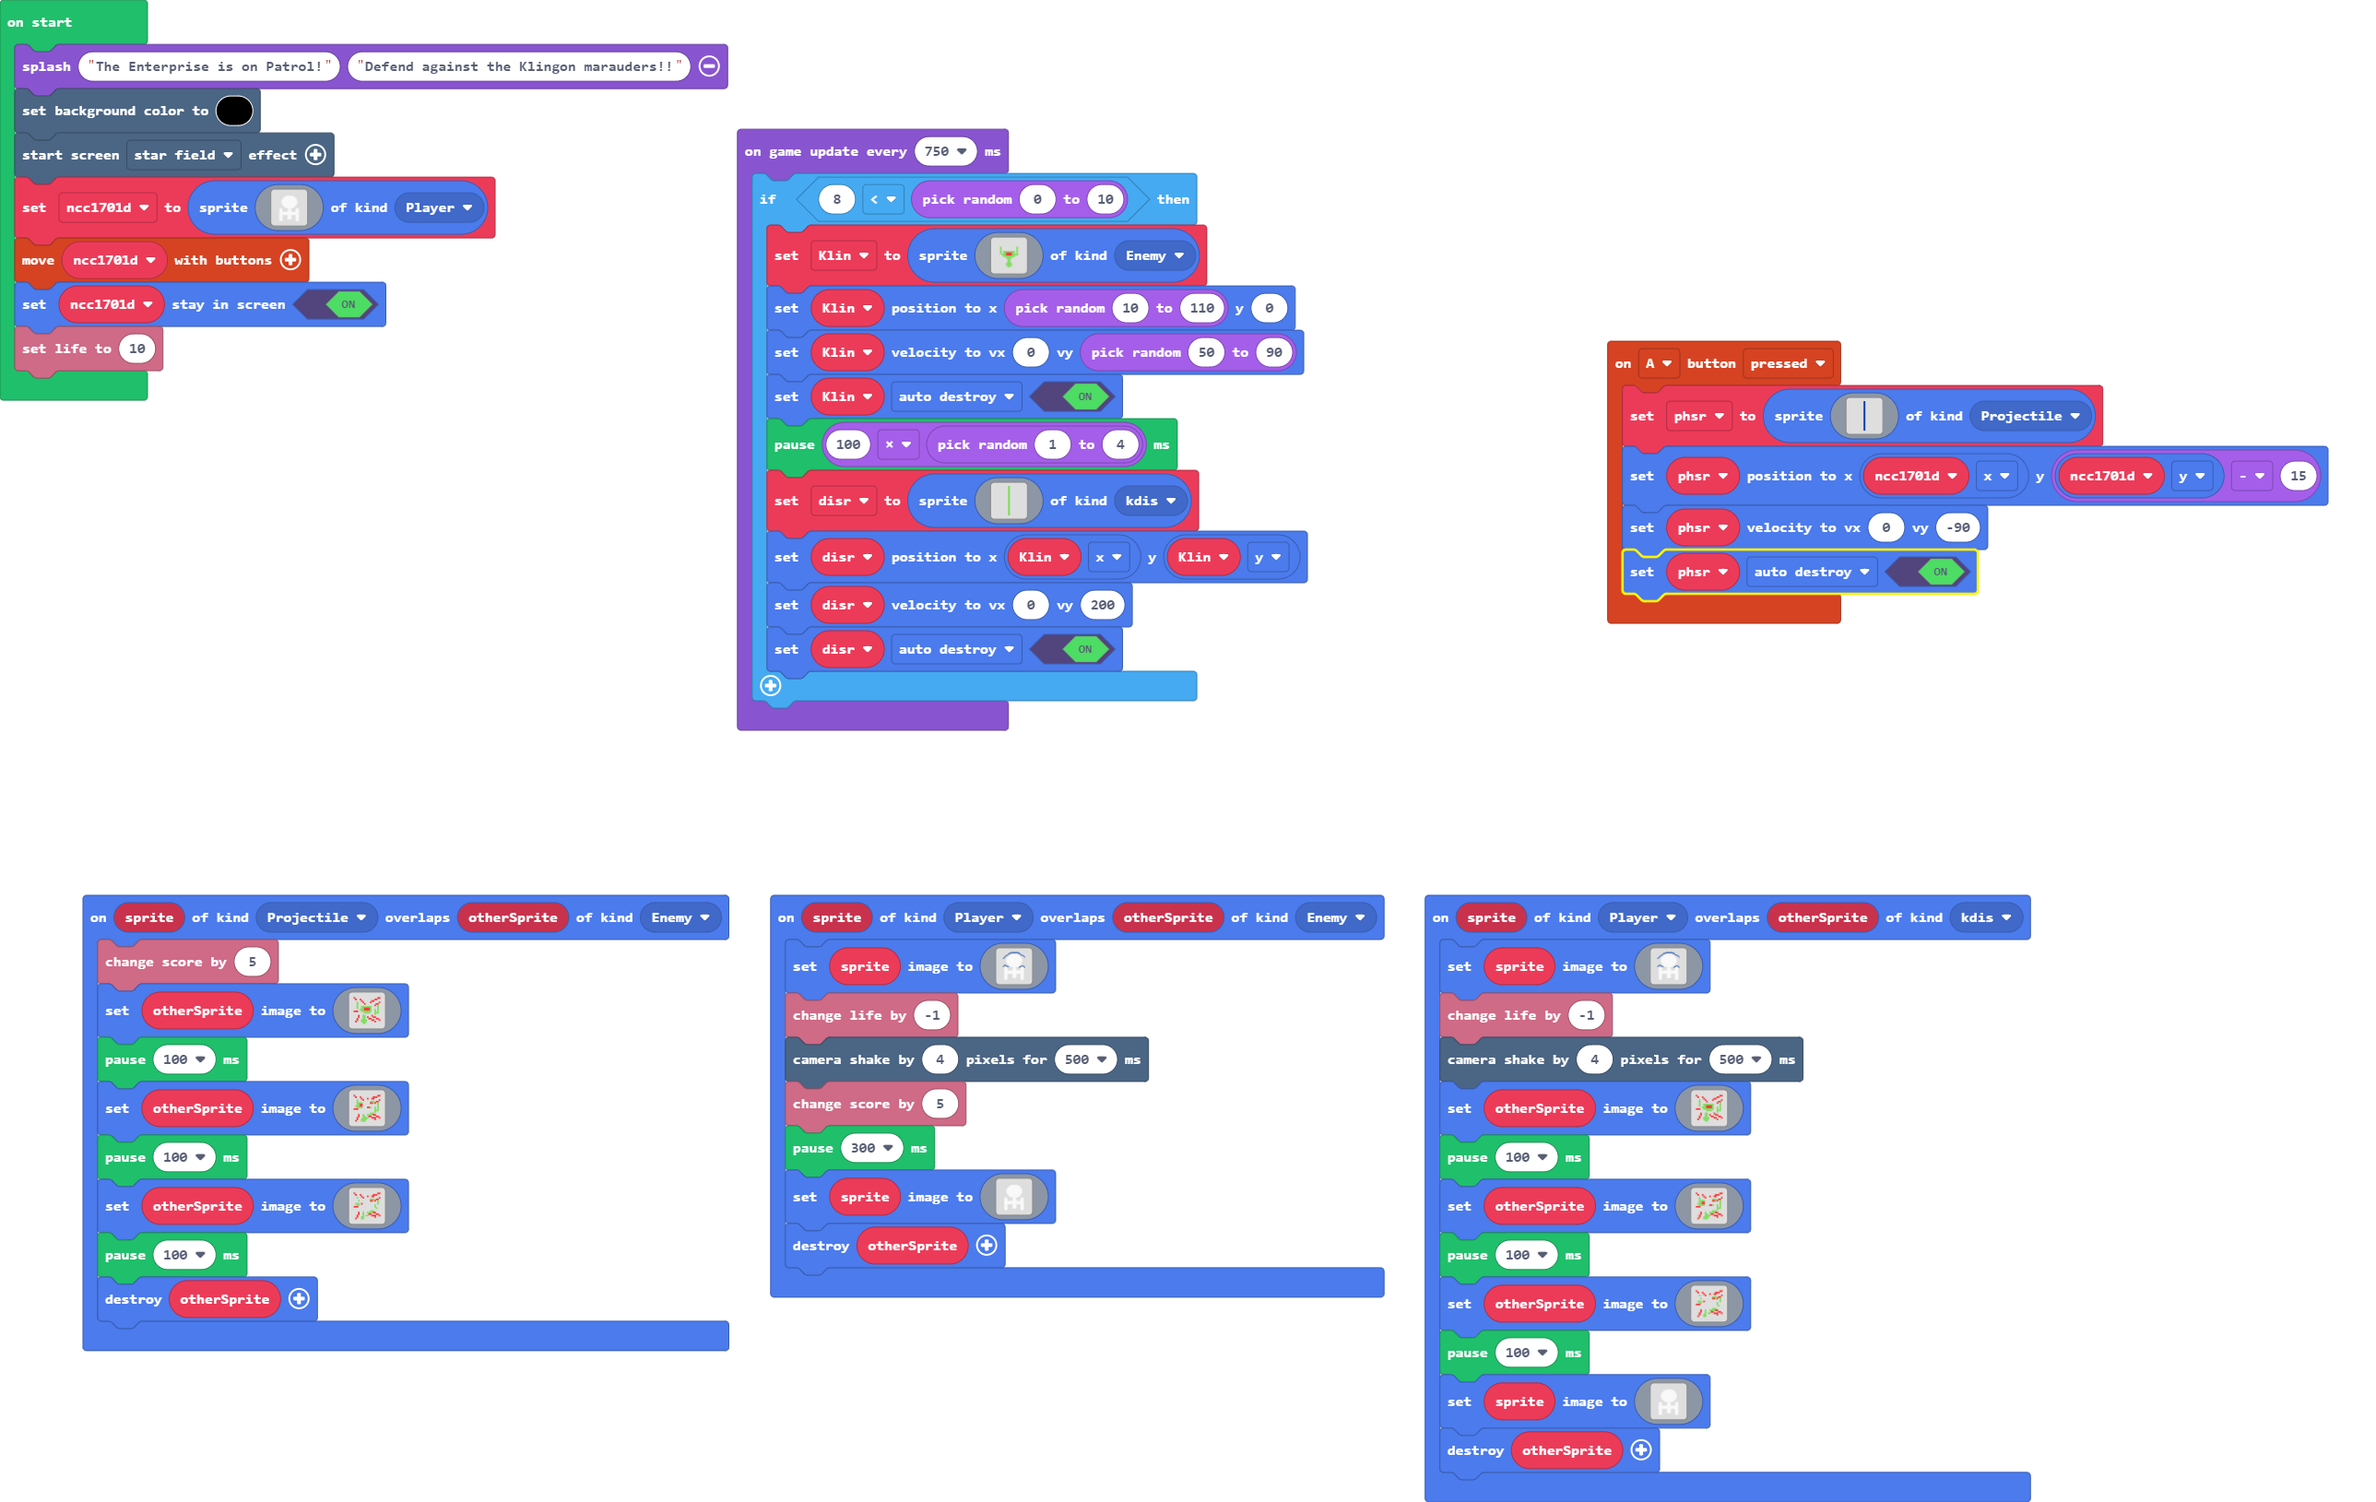
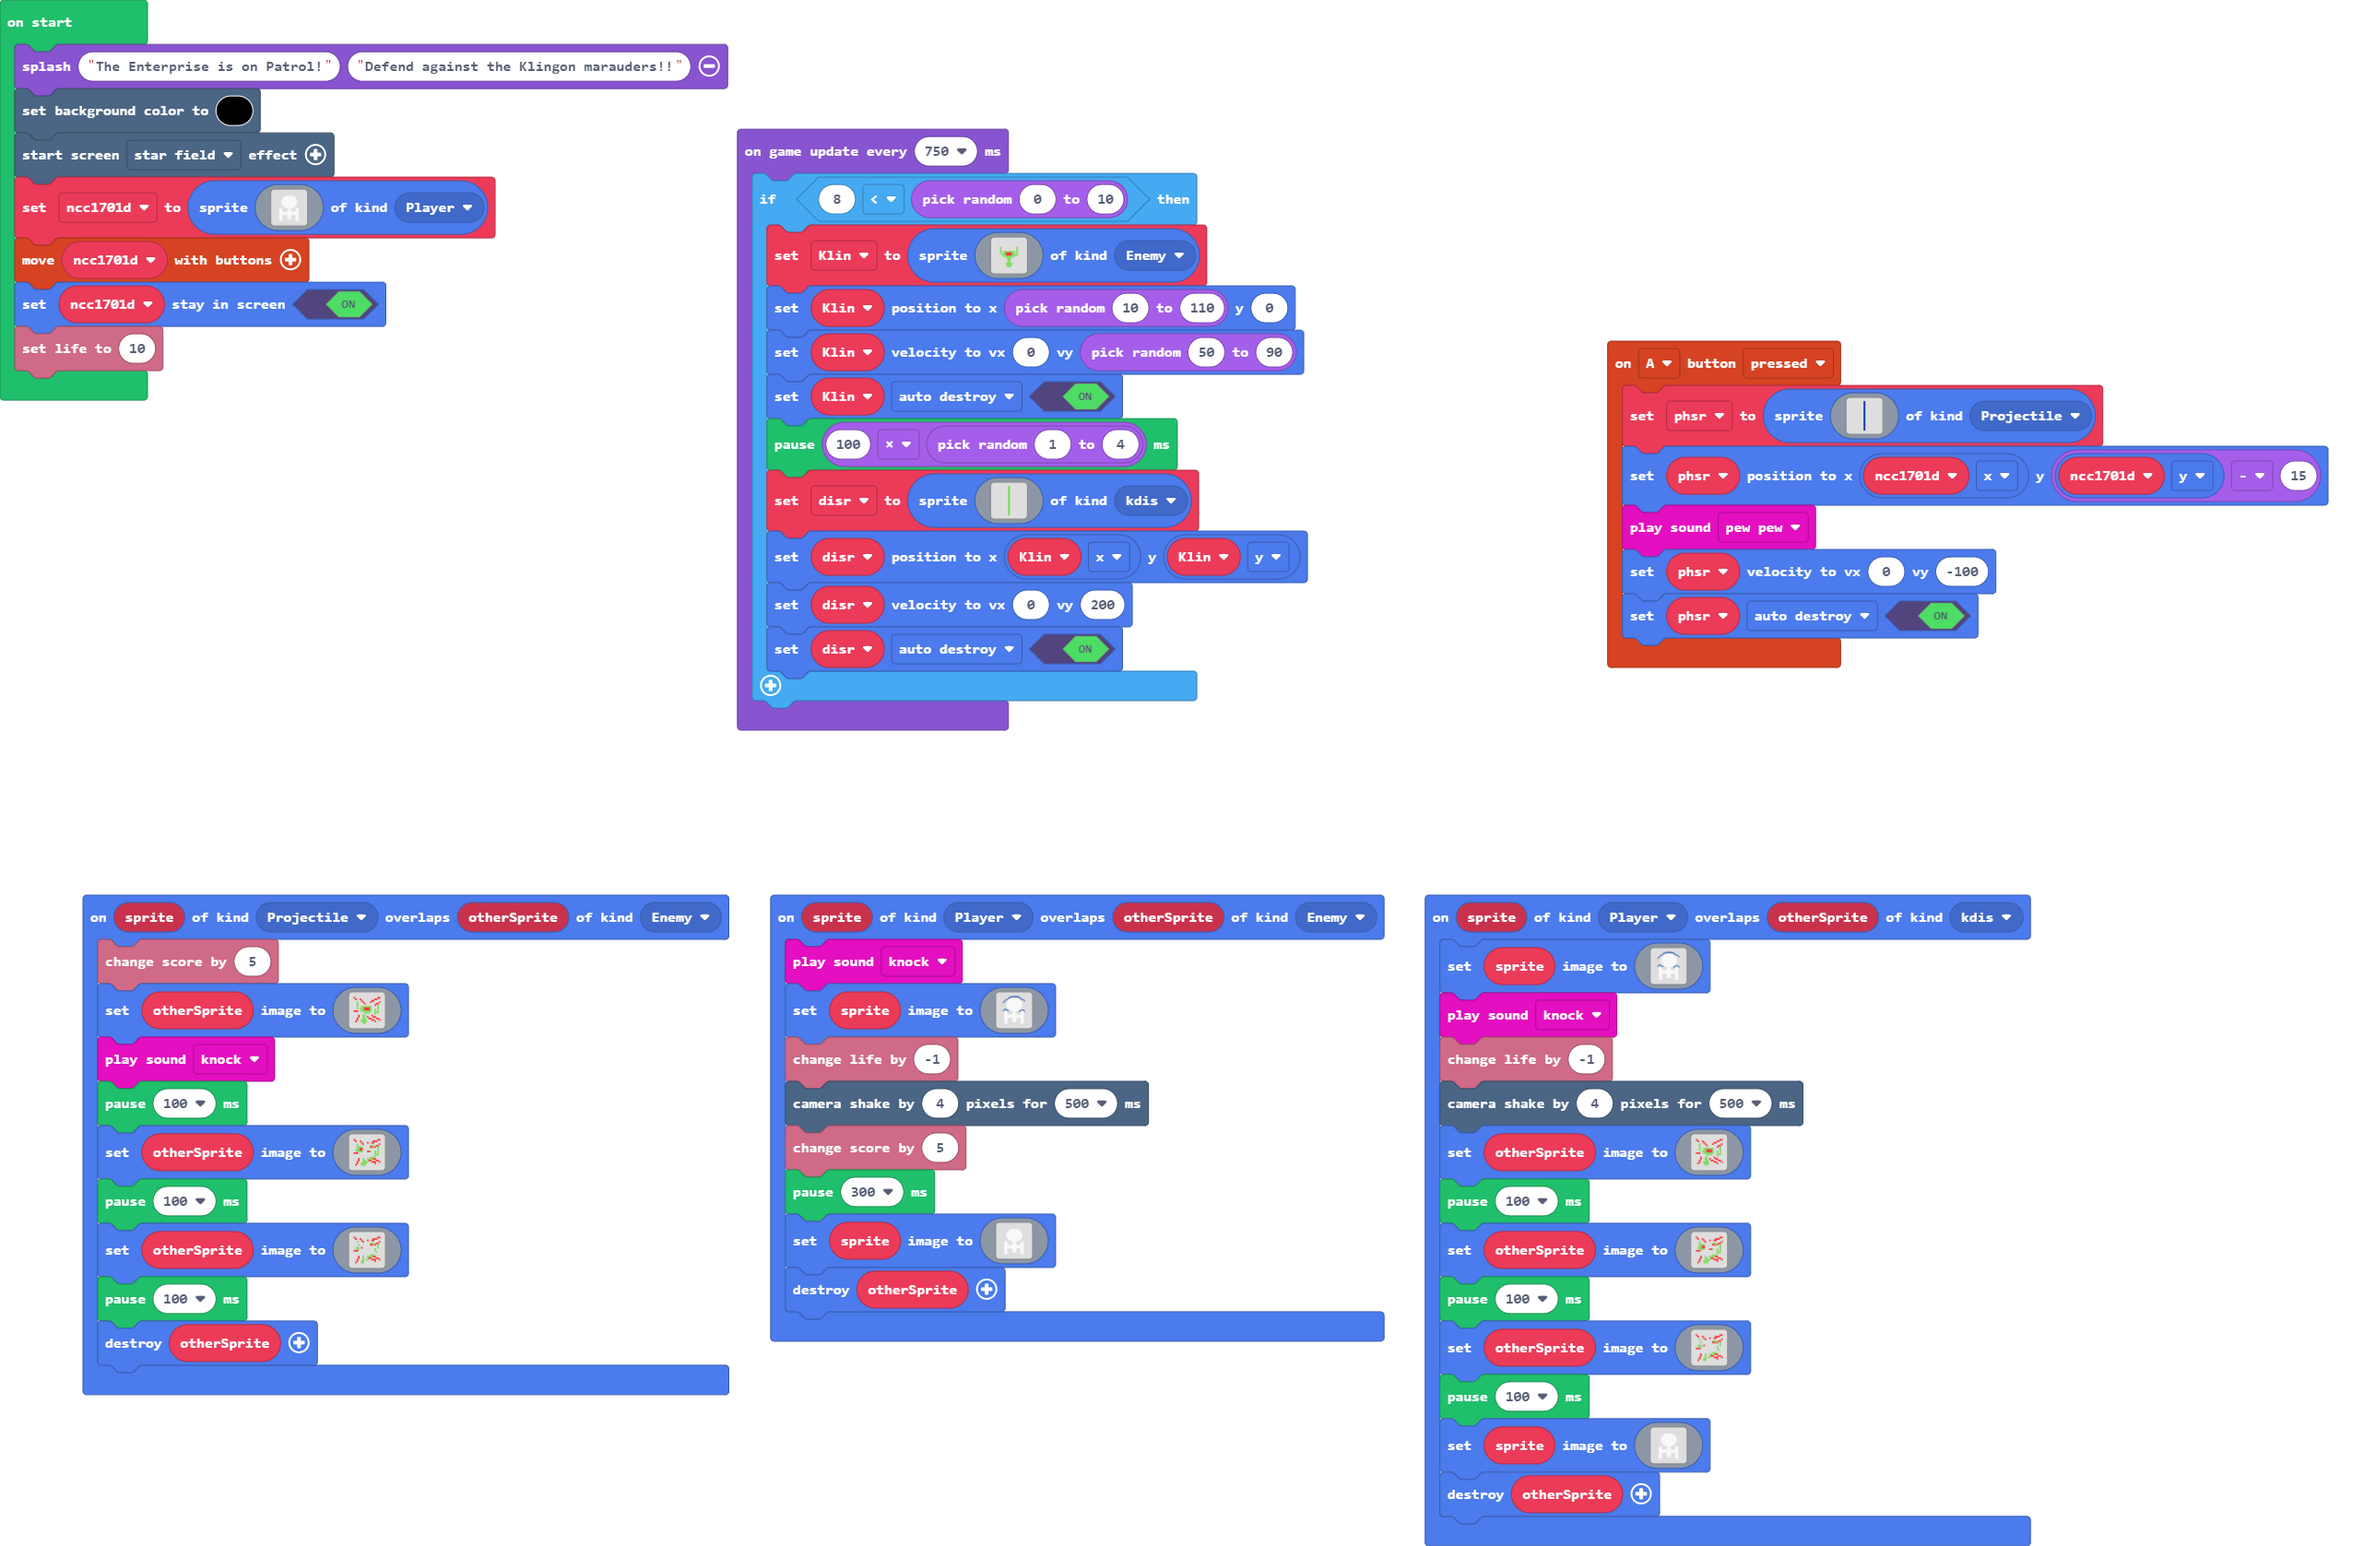
Update main.blocks, main.ts

diff --git a/main.ts b/main.ts
@@ -4,11 +4,13 @@ namespace SpriteKind {
 controller.A.onEvent(ControllerButtonEvent.Pressed, function () {
     phsr = sprites.create(assets.image`phaser`, SpriteKind.Projectile)
     phsr.setPosition(ncc1701d.x, ncc1701d.y - 15)
-    phsr.setVelocity(0, -90)
+    music.pewPew.play()
+    phsr.setVelocity(0, -100)
     phsr.setFlag(SpriteFlag.AutoDestroy, true)
 })
 sprites.onOverlap(SpriteKind.Player, SpriteKind.kdis, function (sprite, otherSprite) {
     sprite.setImage(assets.image`EnterpriseShield`)
+    music.knock.play()
     info.changeLifeBy(-1)
     scene.cameraShake(4, 500)
     otherSprite.setImage(assets.image`KlingonBoom`)
@@ -23,6 +25,7 @@ sprites.onOverlap(SpriteKind.Player, SpriteKind.kdis, function (sprite, otherSpr
 sprites.onOverlap(SpriteKind.Projectile, SpriteKind.Enemy, function (sprite, otherSprite) {
     info.changeScoreBy(5)
     otherSprite.setImage(assets.image`KlingonBoom`)
+    music.knock.play()
     pause(100)
     otherSprite.setImage(assets.image`KlingonBoom0`)
     pause(100)
@@ -31,6 +34,7 @@ sprites.onOverlap(SpriteKind.Projectile, SpriteKind.Enemy, function (sprite, oth
     otherSprite.destroy()
 })
 sprites.onOverlap(SpriteKind.Player, SpriteKind.Enemy, function (sprite, otherSprite) {
+    music.knock.play()
     sprite.setImage(assets.image`EnterpriseShield`)
     info.changeLifeBy(-1)
     scene.cameraShake(4, 500)
